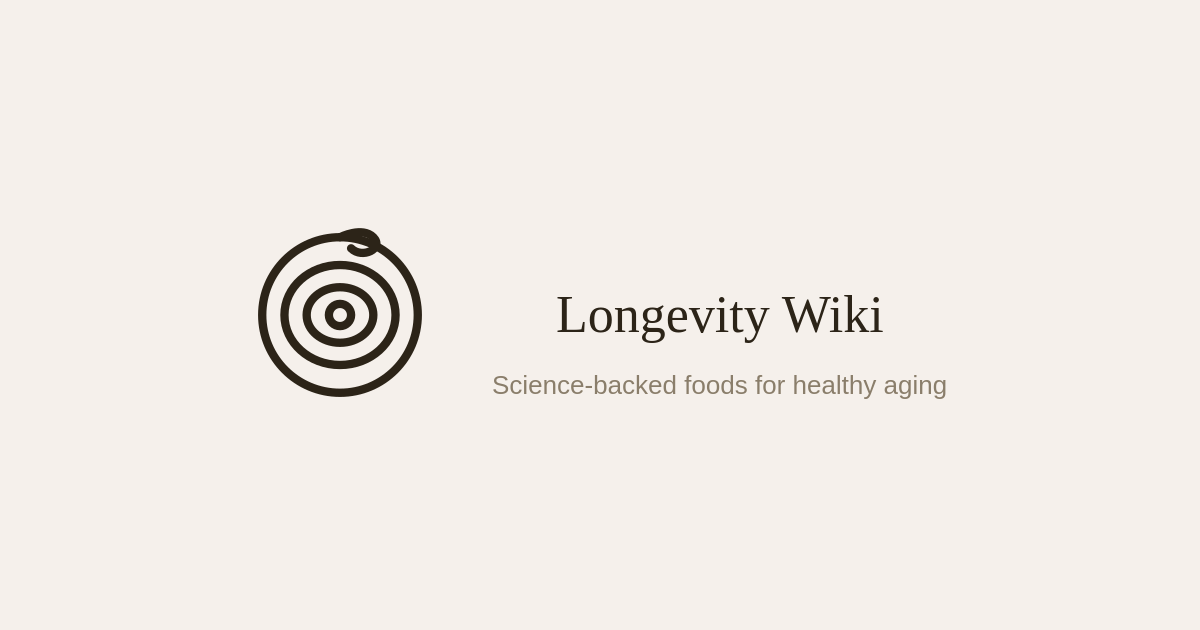
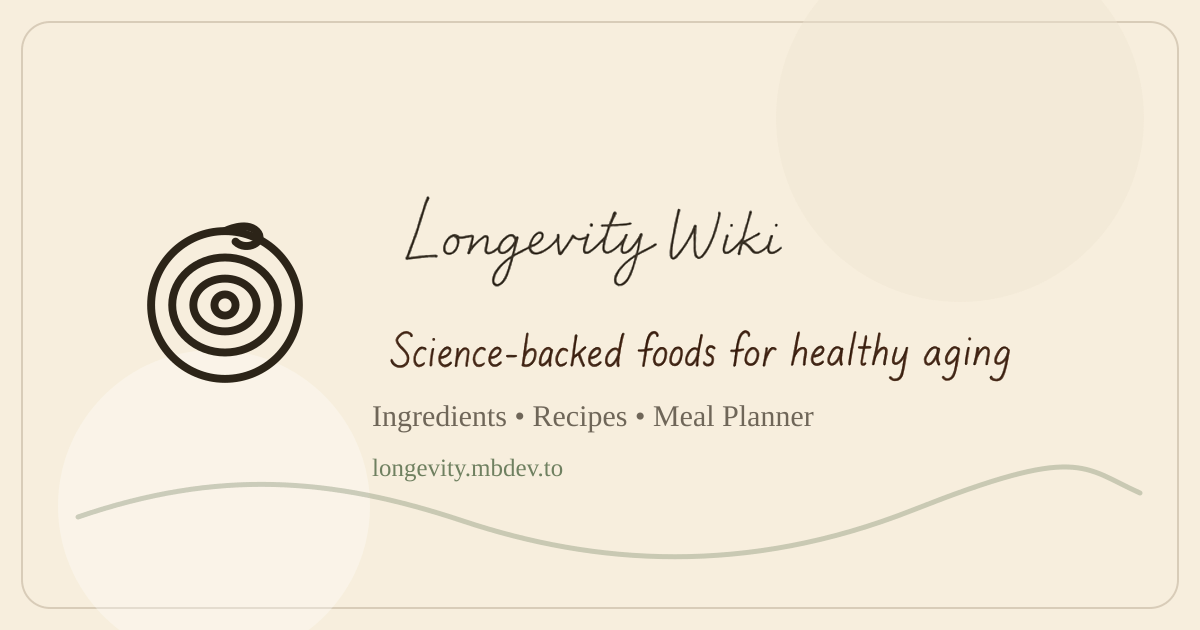
feat(seo): refresh site og image

diff --git a/scripts/seo/generate-home-og.ts b/scripts/seo/generate-home-og.ts
@@ -1,0 +1,211 @@
+/**
+ * Generate the site-wide Open Graph image.
+ *
+ * Usage:
+ *   bun run scripts/seo/generate-home-og.ts
+ *   bun run scripts/seo/generate-home-og.ts --regen-subtitle
+ *
+ * Requires OPENAI_API_KEY in .env.local, env.local, or local.env when
+ * regenerating the handwritten subtitle asset.
+ */
+
+import fs from "node:fs";
+import path from "node:path";
+import OpenAI from "openai";
+import sharp from "sharp";
+
+const ROOT = path.resolve(import.meta.dirname ?? __dirname, "..", "..");
+const RAW_DIR = path.join(ROOT, "scripts", "seo", "raw");
+const BRAND_DIR = path.join(ROOT, "public", "brand");
+const OUT_PATH = path.join(ROOT, "public", "og-image.png");
+const ICON_PATH = path.join(ROOT, "public", "logo-large.svg");
+const WORDMARK_PATH = path.join(BRAND_DIR, "longevity-wiki-wordmark.webp");
+const RAW_SUBTITLE_PATH = path.join(RAW_DIR, "home-og-subtitle.png");
+const SUBTITLE_PATH = path.join(BRAND_DIR, "home-og-subtitle.webp");
+
+const WIDTH = 1200;
+const HEIGHT = 630;
+const BG = "#F7EEDD";
+const INK = "#2C2418";
+const MUTED = "#6F6658";
+const GREEN = "#6F8060";
+const BORDER = "#D8CCB8";
+const BG_RGB = { r: 247, g: 238, b: 221 };
+
+function loadEnvFiles() {
+  for (const name of [".env.local", "env.local", "local.env"]) {
+    const filePath = path.join(ROOT, name);
+    if (!fs.existsSync(filePath)) continue;
+
+    for (const line of fs.readFileSync(filePath, "utf-8").split(/\r?\n/)) {
+      const trimmed = line.trim();
+      if (!trimmed || trimmed.startsWith("#")) continue;
+
+      const match = /^([A-Za-z_][A-Za-z0-9_]*)=(.*)$/.exec(trimmed);
+      if (!match) continue;
+
+      const [, key, rawValue] = match;
+      if (process.env[key]) continue;
+      process.env[key] = rawValue.replace(/^(['"])(.*)\1$/, "$2");
+    }
+  }
+}
+
+function escapeXml(value: string) {
+  return value
+    .replace(/&/g, "&amp;")
+    .replace(/</g, "&lt;")
+    .replace(/>/g, "&gt;")
+    .replace(/"/g, "&quot;");
+}
+
+async function generateSubtitle() {
+  loadEnvFiles();
+
+  if (!process.env.OPENAI_API_KEY) {
+    throw new Error("OPENAI_API_KEY not set. Add it to .env.local, env.local, or local.env and re-run.");
+  }
+
+  fs.mkdirSync(RAW_DIR, { recursive: true });
+  fs.mkdirSync(BRAND_DIR, { recursive: true });
+
+  const client = new OpenAI();
+  const prompt = [
+    "Create a clean handwritten text image that says exactly: Science-backed foods for healthy aging",
+    "The spelling must be exact, with no extra words and no punctuation.",
+    "Style: thin dark brown ink stroke, human handwritten note, calm editorial botanical field-guide feeling.",
+    "Use one line only. Do not use a typeface, block letters, bold lettering, calligraphy flourishes, or thick downstrokes.",
+    `Ink color ${INK} on a perfectly flat bone-white background ${BG}.`,
+    "No icon, no border, no underline, no shadow, no texture, no paper grain, no watermark.",
+    "Wide horizontal composition with modest padding.",
+  ].join("\n");
+
+  const response = await client.images.generate({
+    model: "gpt-image-1",
+    prompt,
+    size: "1536x1024",
+    quality: "high",
+    background: "opaque",
+    n: 1,
+  });
+
+  const b64 = response.data?.[0]?.b64_json;
+  if (!b64) throw new Error("OpenAI returned no image data");
+
+  fs.writeFileSync(RAW_SUBTITLE_PATH, Buffer.from(b64, "base64"));
+}
+
+async function normalizeSubtitle() {
+  if (!fs.existsSync(RAW_SUBTITLE_PATH)) return false;
+
+  await sharp(RAW_SUBTITLE_PATH)
+    .flatten({ background: BG })
+    .trim({ background: BG, threshold: 14 })
+    .extend({ top: 20, bottom: 20, left: 28, right: 28, background: BG })
+    .resize({ width: 690, height: 92, fit: "inside", background: BG })
+    .webp({ quality: 92 })
+    .toFile(SUBTITLE_PATH);
+
+  return true;
+}
+
+async function transparentLightBackground(input: string, width: number, height: number) {
+  const { data, info } = await sharp(input)
+    .flatten({ background: BG })
+    .resize({ width, height, fit: "inside" })
+    .ensureAlpha()
+    .raw()
+    .toBuffer({ resolveWithObject: true });
+
+  const bg = [data[0] ?? BG_RGB.r, data[1] ?? BG_RGB.g, data[2] ?? BG_RGB.b];
+  const transparentAt = 28;
+  const opaqueAt = 115;
+
+  for (let i = 0; i < data.length; i += 4) {
+    const dr = data[i] - bg[0];
+    const dg = data[i + 1] - bg[1];
+    const db = data[i + 2] - bg[2];
+    const distance = Math.sqrt(dr * dr + dg * dg + db * db);
+    const alpha = Math.max(0, Math.min(255, ((distance - transparentAt) / (opaqueAt - transparentAt)) * 255));
+    data[i + 3] = Math.round(alpha);
+  }
+
+  return sharp(data, {
+    raw: {
+      width: info.width,
+      height: info.height,
+      channels: 4,
+    },
+  })
+    .png()
+    .toBuffer();
+}
+
+async function renderOg() {
+  const subtitleExists = fs.existsSync(SUBTITLE_PATH);
+  const fallbackSubtitle = "Science-backed foods for healthy aging";
+
+  const baseSvg = Buffer.from(`
+    <svg width="${WIDTH}" height="${HEIGHT}" viewBox="0 0 ${WIDTH} ${HEIGHT}" xmlns="http://www.w3.org/2000/svg">
+      <rect width="${WIDTH}" height="${HEIGHT}" fill="${BG}"/>
+      <rect x="22" y="22" width="${WIDTH - 44}" height="${HEIGHT - 44}" rx="28" fill="none" stroke="${BORDER}" stroke-width="2"/>
+      <circle cx="960" cy="118" r="184" fill="#EFE5D2" opacity="0.42"/>
+      <circle cx="214" cy="506" r="156" fill="#FFFFFF" opacity="0.32"/>
+      <path d="M78 517 C218 469, 331 477, 463 521 S746 576, 913 510 S1082 467, 1140 493" fill="none" stroke="${GREEN}" stroke-width="5" stroke-linecap="round" opacity="0.34"/>
+      <text x="372" y="426" fill="${escapeXml(MUTED)}" font-family="Georgia, 'Times New Roman', serif" font-size="30" letter-spacing="0">
+        Ingredients • Recipes • Meal Planner
+      </text>
+      <text x="372" y="476" fill="${escapeXml(GREEN)}" font-family="Georgia, 'Times New Roman', serif" font-size="25" letter-spacing="0">
+        longevity.mbdev.to
+      </text>
+      ${
+        subtitleExists
+          ? ""
+          : `<text x="372" y="340" fill="${escapeXml(INK)}" font-family="Georgia, 'Times New Roman', serif" font-size="48" font-style="italic" letter-spacing="0">${escapeXml(fallbackSubtitle)}</text>`
+      }
+    </svg>
+  `);
+
+  const composites: sharp.OverlayOptions[] = [
+    {
+      input: await sharp(ICON_PATH).resize(190, 190, { fit: "inside" }).png().toBuffer(),
+      left: 130,
+      top: 210,
+    },
+    {
+      input: await transparentLightBackground(WORDMARK_PATH, 610, 150),
+      left: 360,
+      top: 166,
+    },
+  ];
+
+  if (subtitleExists) {
+    composites.push({
+      input: await transparentLightBackground(SUBTITLE_PATH, 670, 90),
+      left: 365,
+      top: 312,
+    });
+  }
+
+  await sharp(baseSvg)
+    .composite(composites)
+    .png({ compressionLevel: 9, palette: true })
+    .toFile(OUT_PATH);
+}
+
+async function main() {
+  const regenSubtitle = process.argv.includes("--regen-subtitle") || !fs.existsSync(RAW_SUBTITLE_PATH);
+
+  if (regenSubtitle) await generateSubtitle();
+  await normalizeSubtitle();
+  await renderOg();
+
+  const meta = await sharp(OUT_PATH).metadata();
+  console.log(`Out: ${OUT_PATH}`);
+  console.log(`Size: ${meta.width}x${meta.height}`);
+}
+
+main().catch((err) => {
+  console.error(err);
+  process.exit(1);
+});
